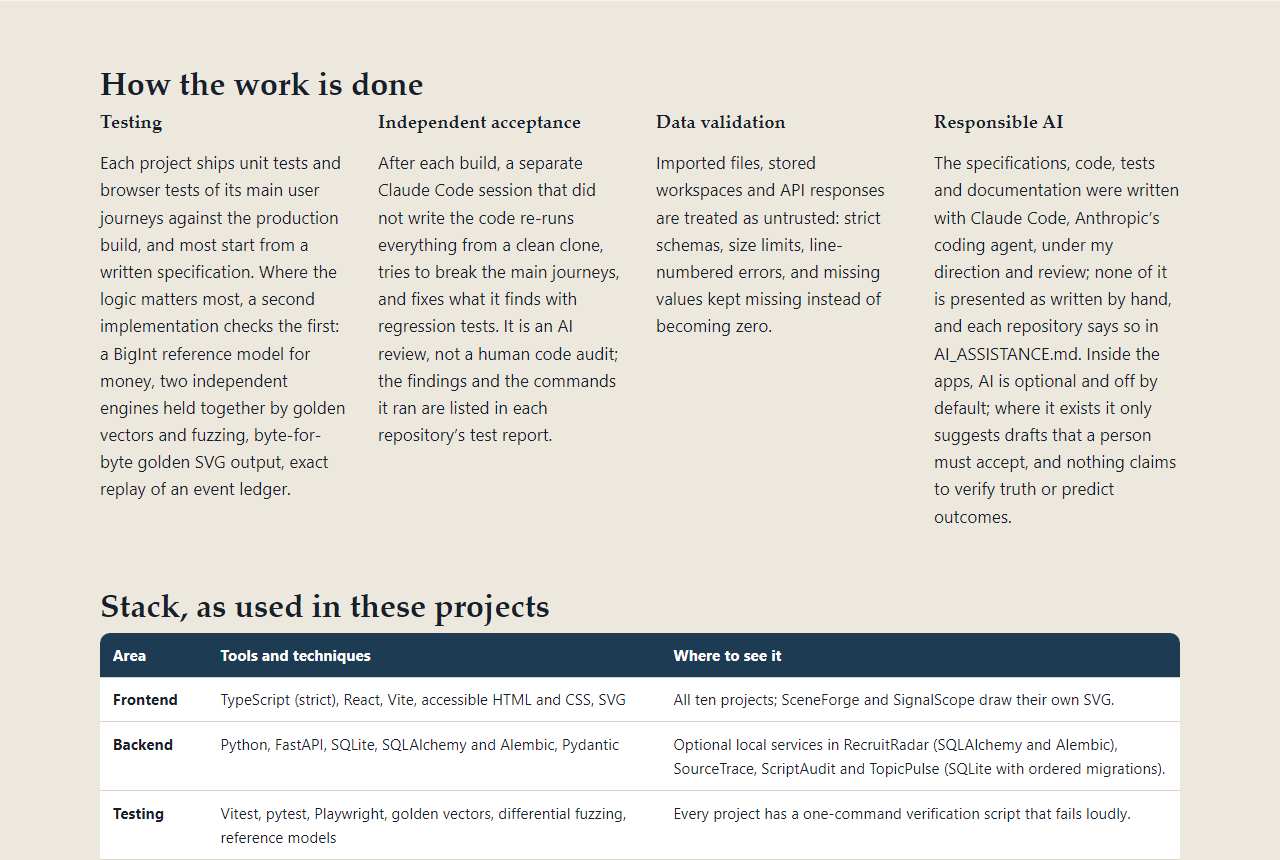
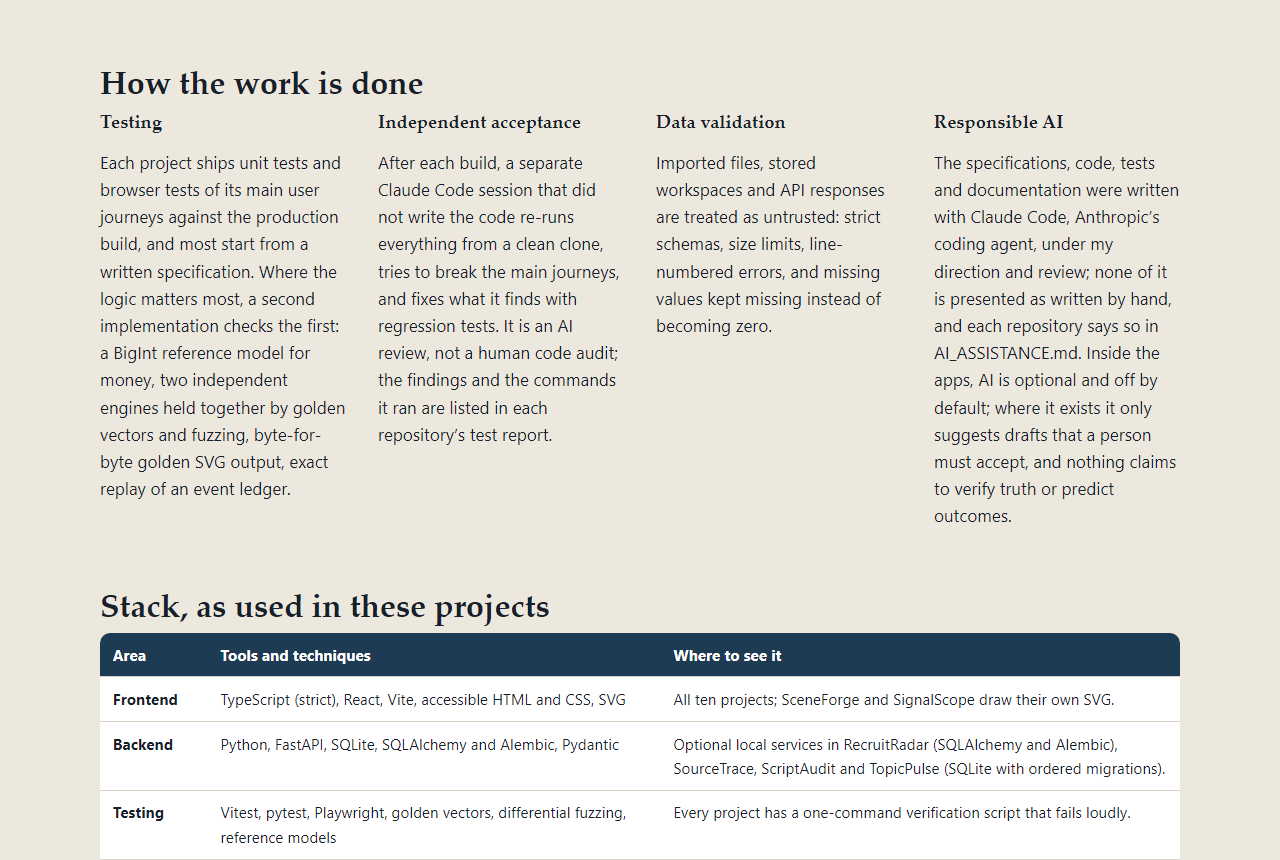
Home page: demo and source links on every project card; RecruitRadar urgency-score note; latest commits

diff --git a/src/content/projects.ts b/src/content/projects.ts
@@ -104,7 +104,7 @@ export const PROJECTS: Project[] = [
       },
     ],
     verified: '2026-10-15',
-    commit: '214668e',
+    commit: '570c24a',
   },
   {
     slug: 'recruit-radar',
@@ -155,6 +155,7 @@ export const PROJECTS: Project[] = [
     limitations: [
       'The static demo cannot refresh from job boards; that needs the local backend.',
       'Scores are fixed-weight heuristics with no semantic title matching.',
+      'One score component (weight 10) rises with roles posted 45 or more days ago, labelled “possible urgency signal, not evidence of hiring difficulty”; a long-open posting can lift a company that is otherwise quiet.',
       'Provider payload shapes come from documentation and a one-off live check; automated tests use synthetic payloads.',
     ],
     shots: [
@@ -175,7 +176,7 @@ export const PROJECTS: Project[] = [
       },
     ],
     verified: '2026-10-15',
-    commit: 'f9d6103',
+    commit: 'adb1bfd',
   },
   {
     slug: 'source-trace',
@@ -247,7 +248,7 @@ export const PROJECTS: Project[] = [
       },
     ],
     verified: '2026-10-15',
-    commit: '4f2ac8d',
+    commit: 'f362c28',
   },
   {
     slug: 'scene-forge',
@@ -305,7 +306,7 @@ export const PROJECTS: Project[] = [
       },
     ],
     verified: '2026-10-19',
-    commit: 'bddfb65',
+    commit: '6c893d8',
   },
   {
     slug: 'workflow-observatory',
@@ -344,7 +345,7 @@ export const PROJECTS: Project[] = [
       },
     ],
     verified: '2026-10-19',
-    commit: '9a6e646',
+    commit: '7c0af35',
   },
   {
     slug: 'signal-scope',
@@ -383,7 +384,7 @@ export const PROJECTS: Project[] = [
       },
     ],
     verified: '2026-10-19',
-    commit: '573a546',
+    commit: '33c2149',
   },
   {
     slug: 'script-audit',
@@ -434,7 +435,7 @@ export const PROJECTS: Project[] = [
       },
     ],
     verified: '2026-10-19',
-    commit: 'bb81fcd',
+    commit: 'a96acad',
   },
   {
     slug: 'topic-pulse',
@@ -484,7 +485,7 @@ export const PROJECTS: Project[] = [
       },
     ],
     verified: '2026-10-19',
-    commit: 'de4a801',
+    commit: '516171d',
   },
   {
     slug: 'recruit-sim',
@@ -520,7 +521,7 @@ export const PROJECTS: Project[] = [
       },
     ],
     verified: '2026-10-19',
-    commit: '0c30ef1',
+    commit: '9db2eb4',
   },
   {
     slug: 'story-atlas',
@@ -556,7 +557,7 @@ export const PROJECTS: Project[] = [
       },
     ],
     verified: '2026-10-19',
-    commit: 'bd047b1',
+    commit: '88905d8',
   },
 ];
 

diff --git a/src/pages/Pages.tsx b/src/pages/Pages.tsx
@@ -154,6 +154,21 @@ export function HomePage() {
                 <p className="small">
                   <Status p={p} />
                 </p>
+                {p.demo ? (
+                  <p className="small card-links">
+                    <a href={p.demo}>
+                      Live demo<span className="sr-only"> of {p.name}</span>
+                    </a>
+                    {p.repo ? (
+                      <>
+                        {' · '}
+                        <a href={p.repo}>
+                          Source<span className="sr-only"> of {p.name} on GitHub</span>
+                        </a>
+                      </>
+                    ) : null}
+                  </p>
+                ) : null}
               </li>
             ))}
           </ul>

diff --git a/tests/content.test.ts b/tests/content.test.ts
@@ -90,6 +90,13 @@ describe('rendered pages', () => {
     }
   });
 
+  it('the home page links every published project straight to its demo', () => {
+    const out = html('/');
+    for (const p of PROJECTS.filter((x) => x.status === 'published')) {
+      expect(out, p.slug).toContain(`href="https://patrickndevelopment.github.io/${p.slug}/"`);
+    }
+  });
+
   it('escapes text into attributes and content', () => {
     const out = html('/');
     expect(out).not.toMatch(/content="[^"]*<[^"]*"/);
